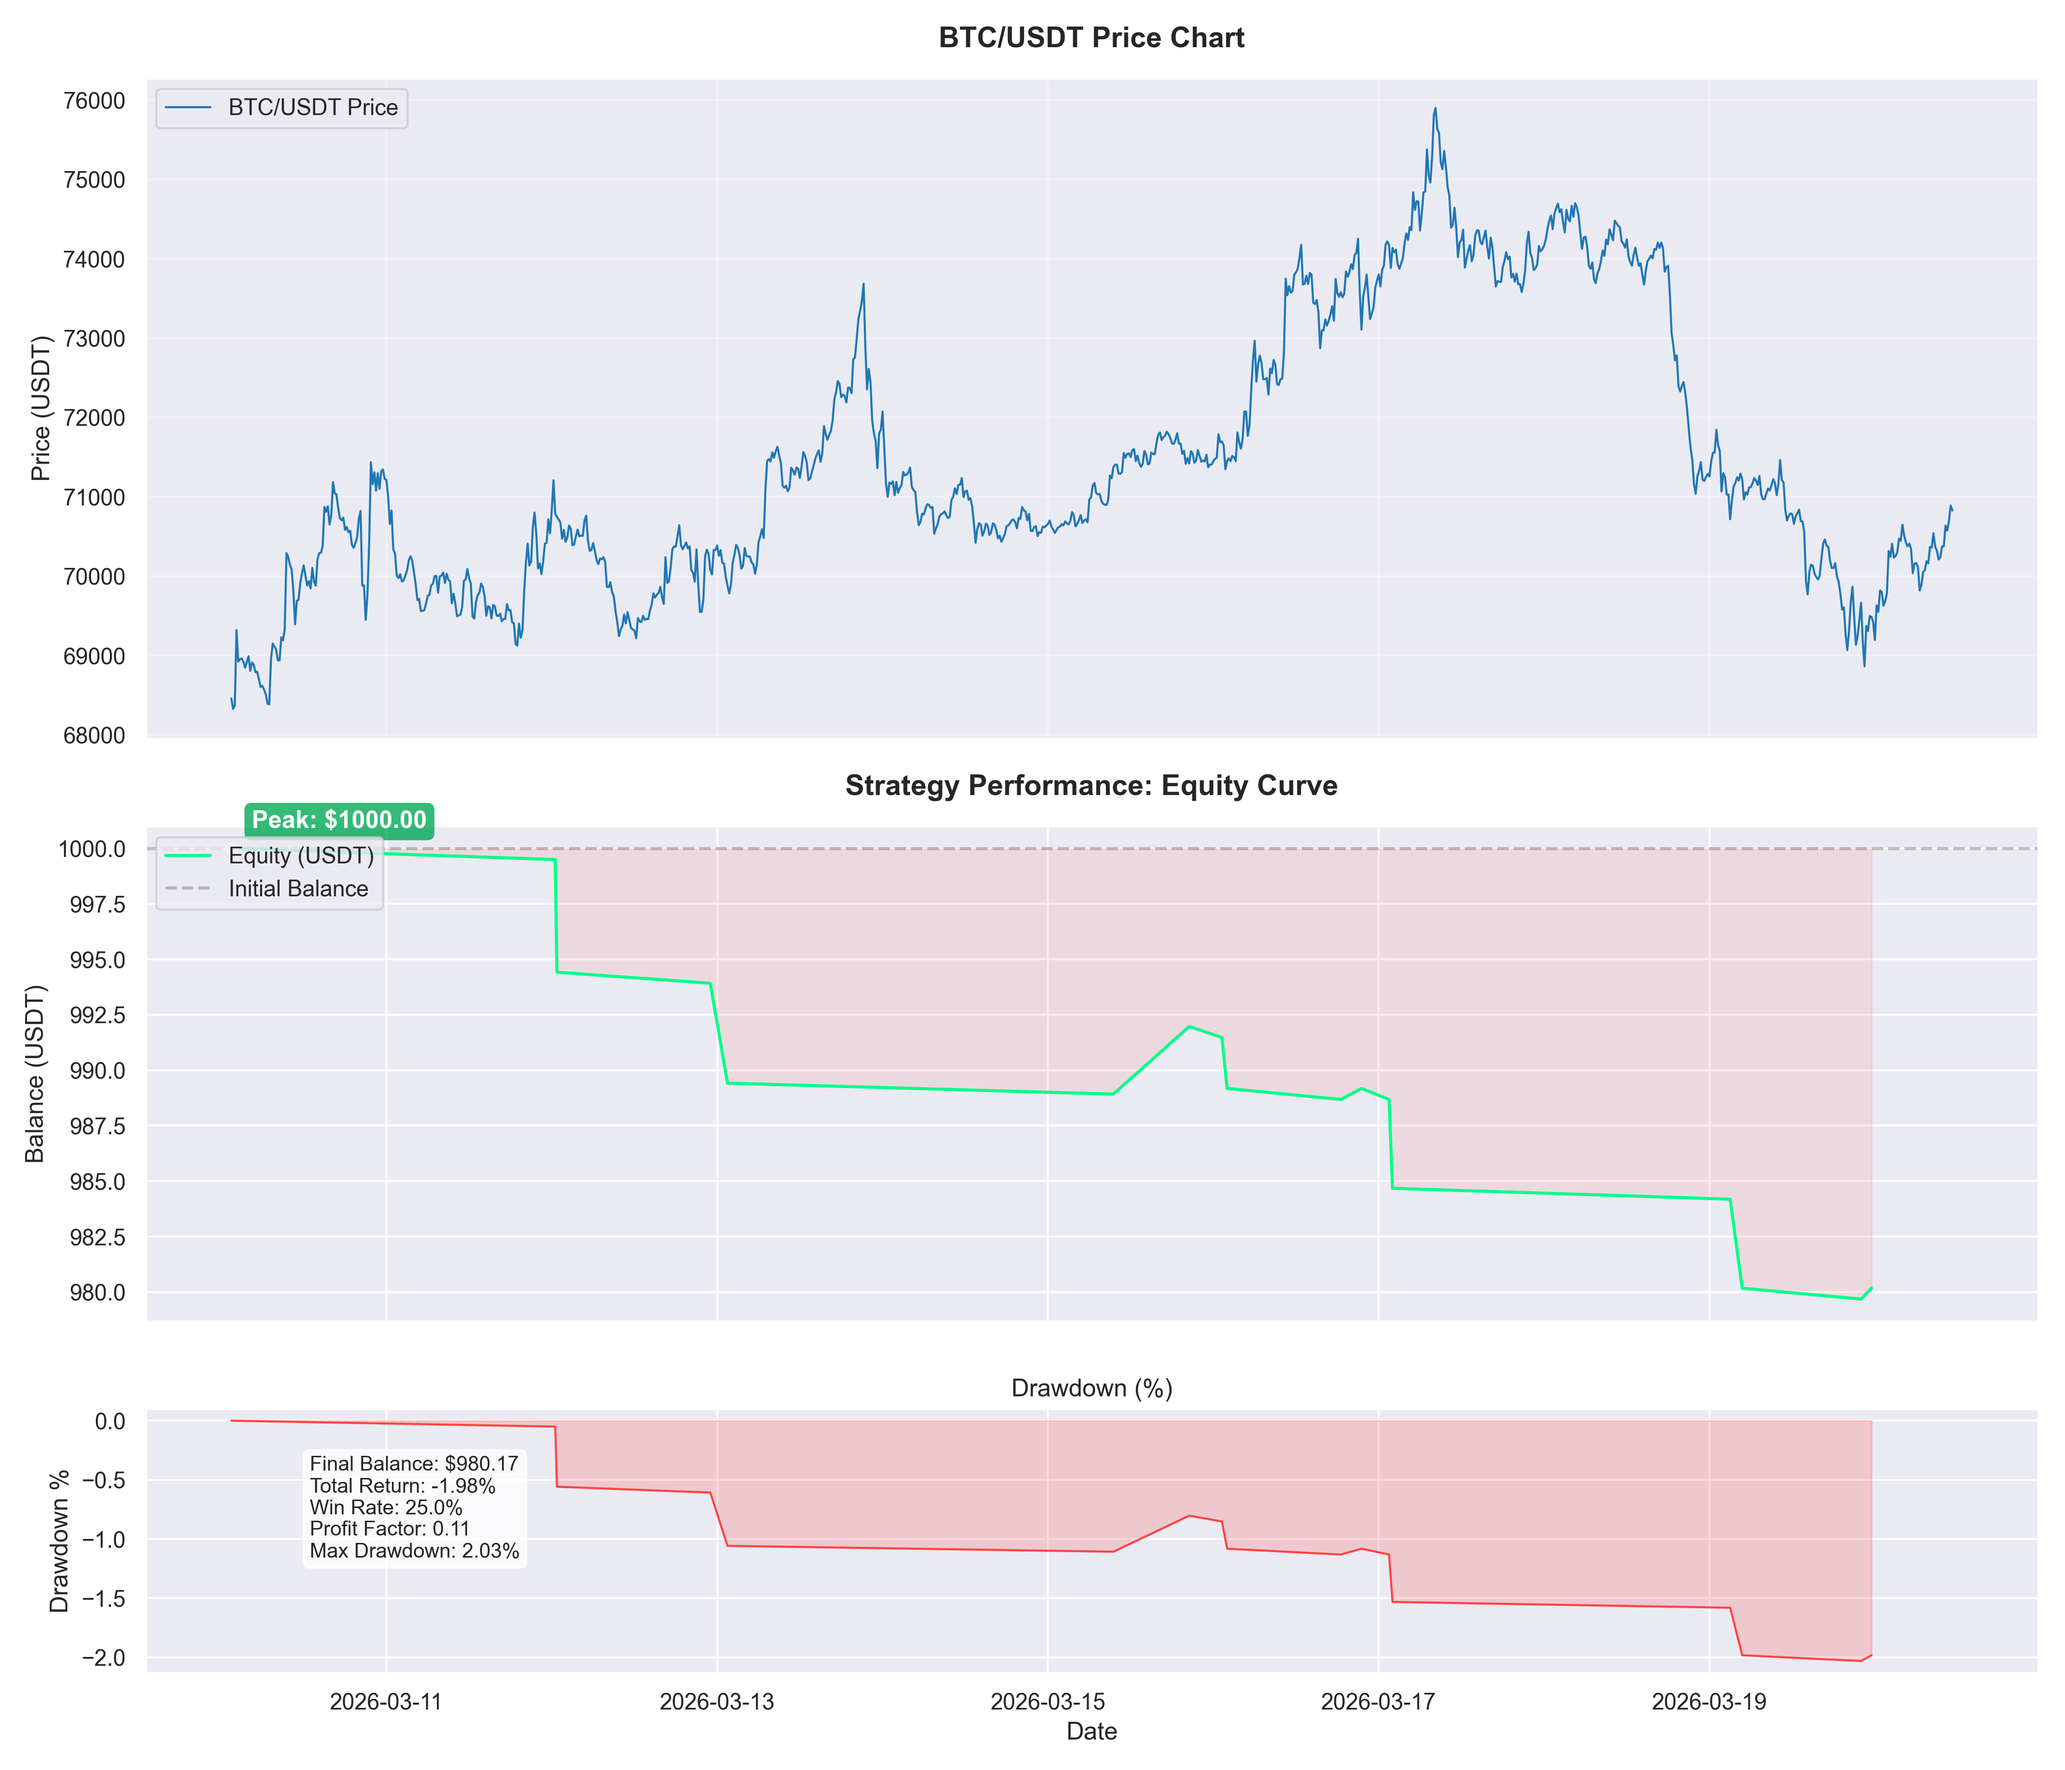
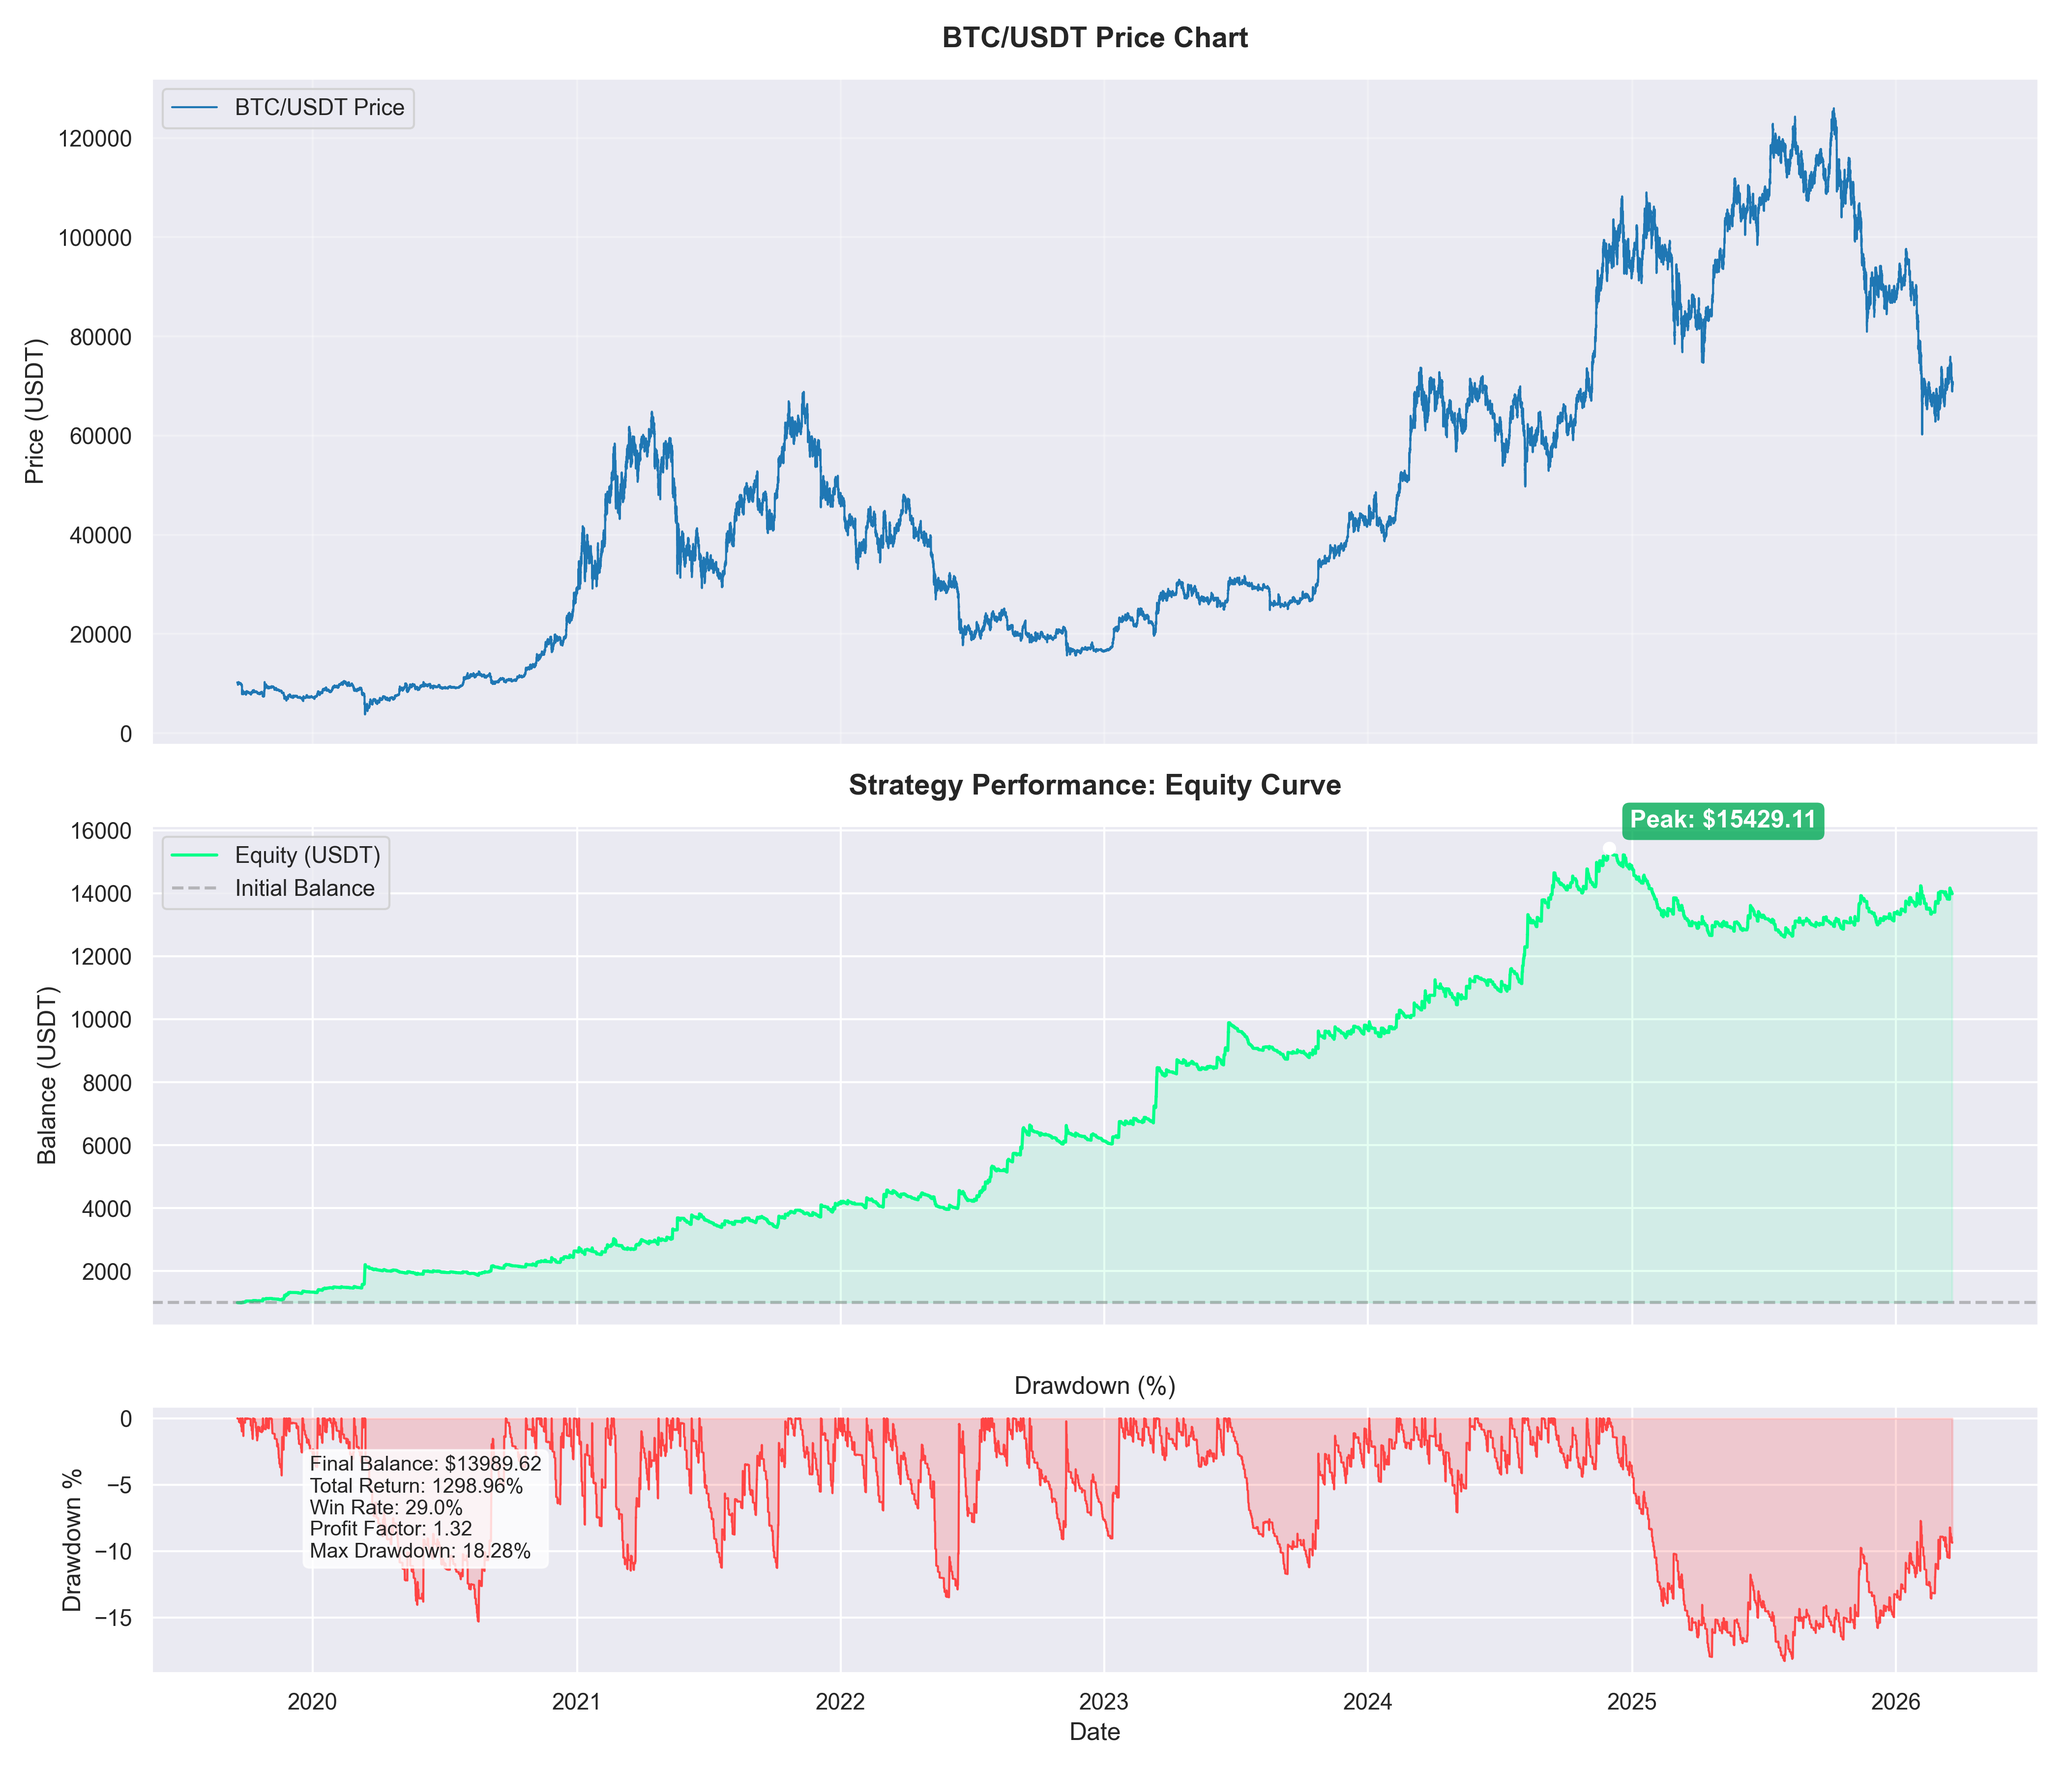
feat: Introduce backtesting orchestrator and core strategy logic with HTF filtering, volume checks, and performance reporting.

diff --git a/module/bot/core_strategy.py b/module/bot/core_strategy.py
@@ -4,17 +4,8 @@ from config import settings
 
 def evaluate_signal(df_final: pd.DataFrame, current_pos_amt: float) -> tuple[Optional[str], float, str]:
     """
-    Evaluates the trading signal based on the unified strategy rules.
-    
-    Args:
-        df_final: The dataframe containing all prepared indicators.
-        current_pos_amt: Current position size (positive for long, negative for short, 0 for none).
-        
-    Returns:
-        tuple containing:
-            - signal (str or None): 'LONG', 'SHORT', 'CLOSE_LONG', 'CLOSE_SHORT', or None
-            - suggested_pos_size_pct (float): Recommended position sizing % based on EMA slope
-            - reason (str): Explanatory reason for logging
+    Evaluates the trading signal based on the simplified strategy rules.
+    ADX, RSI and EMA Slope sizing filters have been removed.
     """
     if len(df_final) < 3:
         return None, settings.POSITION_SIZE_PERCENT, "Not enough data"
@@ -30,39 +21,12 @@ def evaluate_signal(df_final: pd.DataFrame, current_pos_amt: float) -> tuple[Opt
     close_price = last_candle['close']
     ema_val = last_candle[f'EMA_{settings.EMA_LENGTH}']
     
-    # Retrieve dynamic settings with fallback
-    adx_length = getattr(settings, 'ADX_LENGTH', 14)
-    adx_threshold = getattr(settings, 'ADX_THRESHOLD', 20.0)
-    rsi_length = getattr(settings, 'RSI_LENGTH', 14)
-    rsi_long_threshold = getattr(settings, 'RSI_LONG_THRESHOLD', 30.0)
-    rsi_overbought = getattr(settings, 'RSI_OVERBOUGHT', 70.0)
-    rsi_oversold = getattr(settings, 'RSI_OVERSOLD', 30.0)
-    ema_slope_ema_length = getattr(settings, 'EMA_SLOPE_EMA_LENGTH', settings.EMA_LENGTH)
-    ema_slope_lookback = getattr(settings, 'EMA_SLOPE_LOOKBACK', 3)
-    ema_slope_threshold = getattr(settings, 'EMA_SLOPE_THRESHOLD', 0.001)
-    reduced_size_pct = getattr(settings, 'REDUCED_POSITION_SIZE_PERCENT', settings.POSITION_SIZE_PERCENT)
-    
-    adx_val = last_candle.get('ADX', 0)
-    atr_val = last_candle.get('ATR', 0)
-    rsi_val = last_candle.get('RSI', 50)
     vol_ma_val = last_candle.get(f'VOL_MA_{settings.VOLUME_MA_LENGTH}', 0)
     current_volume = last_candle.get('volume', 0)
     htf_trend = last_candle.get('HTF_TREND', current_trend) # defaults to current if missing
     
-    ema_slope_val = last_candle.get(f'EMA_{ema_slope_ema_length}', ema_val)
-    slope_idx = -(ema_slope_lookback + 2)
-    if abs(slope_idx) <= len(df_final):
-        ema_slope_prev = df_final.iloc[slope_idx].get(f'EMA_{ema_slope_ema_length}', ema_val)
-    else:
-        ema_slope_prev = ema_slope_val  # not enough history yet, treat as flat
-    ema_slope_pct = (ema_slope_val - ema_slope_prev) / ema_slope_prev if ema_slope_prev != 0 else 0
-    is_flat_slope = abs(ema_slope_pct) < ema_slope_threshold
+    actual_pos_size = settings.POSITION_SIZE_PERCENT
     
-    actual_pos_size = reduced_size_pct if is_flat_slope else settings.POSITION_SIZE_PERCENT
-    
-    is_trending = adx_val > adx_threshold
-    rsi_long_ok = rsi_long_threshold < rsi_val < rsi_overbought
-    rsi_short_ok = rsi_val > rsi_oversold
     vol_ok = current_volume > vol_ma_val
     is_uptrend_long = close_price > ema_val
     is_downtrend_short = close_price < ema_val
@@ -80,25 +44,17 @@ def evaluate_signal(df_final: pd.DataFrame, current_pos_amt: float) -> tuple[Opt
     
     # 2. Entry Logic
     if current_trend == 1 and previous_trend == -1 and is_uptrend_long and htf_long_ok:
-        if is_trending and rsi_long_ok and vol_ok:
+        if vol_ok:
             signal = 'LONG'
-            reason = f"{signal} Validated. Flat={is_flat_slope}"
+            reason = f"{signal} Validated."
         else:
-            reasons = []
-            if not is_trending: reasons.append("ADX low")
-            if not rsi_long_ok: reasons.append("RSI invalid")
-            if not vol_ok: reasons.append("Volume low")
-            reason = f"LONG detected but {', '.join(reasons)}."
+            reason = "LONG detected but Volume low."
     elif current_trend == -1 and previous_trend == 1 and is_downtrend_short and htf_short_ok:
-        if is_trending and rsi_short_ok and vol_ok:
+        if vol_ok:
             signal = 'SHORT'
-            reason = f"{signal} Validated. Flat={is_flat_slope}"
+            reason = f"{signal} Validated."
         else:
-            reasons = []
-            if not is_trending: reasons.append("ADX low")
-            if not rsi_short_ok: reasons.append("RSI oversold")
-            if not vol_ok: reasons.append("Volume low")
-            reason = f"SHORT detected but {', '.join(reasons)}."
+            reason = "SHORT detected but Volume low."
             
     if signal and current_pos_amt == 0:
         return signal, actual_pos_size, reason

diff --git a/module/backtest/orchestrator.py b/module/backtest/orchestrator.py
@@ -28,7 +28,7 @@ from module.backtest.data_loader import BacktestDataLoader
 from module.backtest.simulator import Simulator
 from module.backtest.reporter import BacktestReporter
 
-LIMIT = 1000
+LIMIT = 228000
 WORKERS = 5
 SLEEP = 1.5
 GEN_CHART = True
